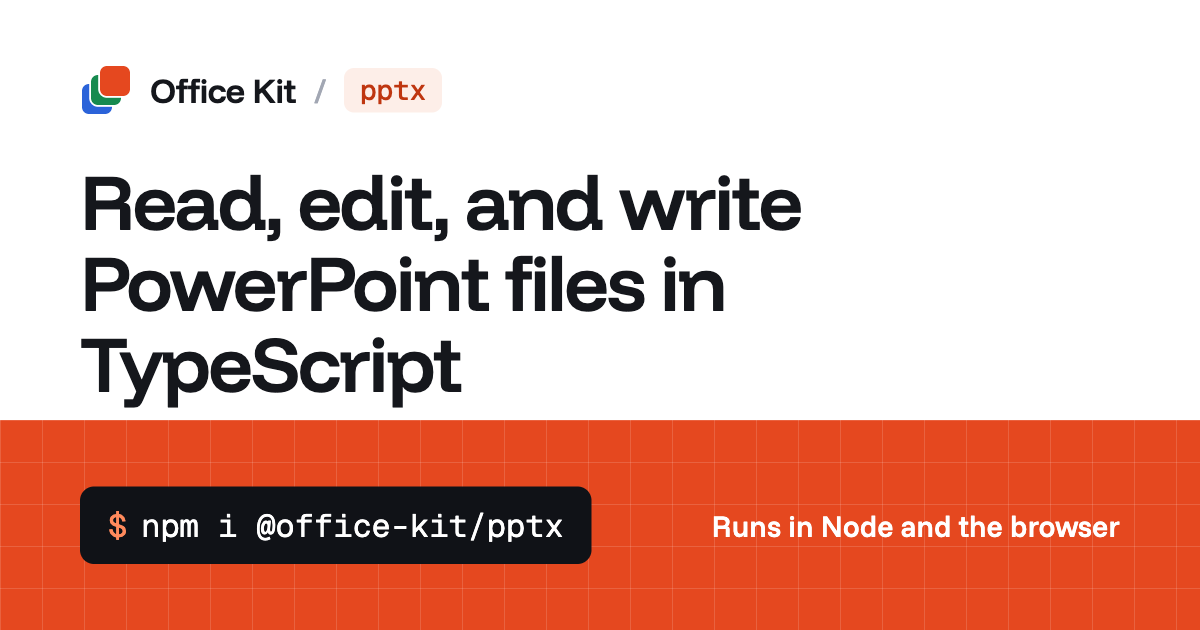
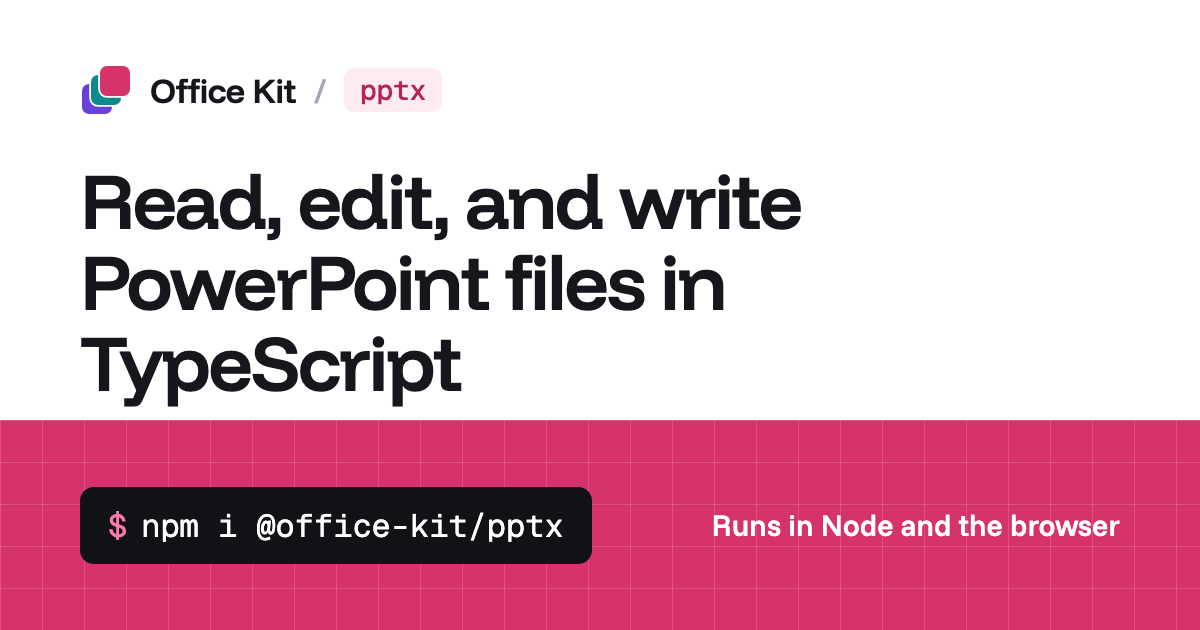
chore(site): pick up the new office-kit brand colors (#402)

diff --git a/site/src/lib/examples/hero-deck.ts b/site/src/lib/examples/hero-deck.ts
@@ -26,7 +26,7 @@ export function buildHeroDeck(): PresentationData {
     w: inches(0.12),
     h: inches(0.95),
   });
-  setShapeFill(bar, '#E5481F');
+  setShapeFill(bar, '#D6336C');
   setShapeNoStroke(bar);
 
   const title = addSlideTextBox(slide, {
@@ -56,7 +56,7 @@ export function buildHeroDeck(): PresentationData {
       kind: 'column',
       categories: ['Q1', 'Q2', 'Q3', 'Q4'],
       series: [
-        { name: 'Revenue', values: [120, 180, 240, 300], color: '#E5481F' },
+        { name: 'Revenue', values: [120, 180, 240, 300], color: '#D6336C' },
         { name: 'Cost', values: [80, 90, 130, 160], color: '#C9CDD6' },
       ],
       legend: { position: 'b', textStyle: { sizePt: 14, color: '#5B616E' } },

diff --git a/packages/dsl/examples/review.tsx b/packages/dsl/examples/review.tsx
@@ -1,7 +1,7 @@
 /** @jsxImportSource @office-kit/pptx-dsl */
 import { Presentation, Slide, Text, Shape, Chart, Table } from '@office-kit/pptx-dsl';
 
-const accent = '#E5481F';
+const accent = '#D6336C';
 const kpis = [
   ['$300k', 'Q4 revenue'],
   ['47%', 'Gross margin'],

diff --git a/packages/dev/src/init.ts b/packages/dev/src/init.ts
@@ -13,7 +13,7 @@ export default (
 
 const theme = `export const theme = {
   background: '#15171C',
-  accent: '#E5481F',
+  accent: '#D6336C',
   text: '#FFFFFF',
   muted: '#B4B9C4',
 } as const;

diff --git a/skill/references/tsx.md b/skill/references/tsx.md
@@ -13,7 +13,7 @@ approximately 13.333 × 7.5 inches. Child order is drawing order.
 ```tsx
 import { Presentation, Slide, Text, Shape, Chart, Table } from '@office-kit/pptx-dsl';
 
-const accent = '#E5481F';
+const accent = '#D6336C';
 
 export default (
   <Presentation>

diff --git a/.changeset/init-rose-accent.md b/.changeset/init-rose-accent.md
@@ -1,0 +1,5 @@
+---
+'@office-kit/pptx-dev': patch
+---
+
+`init` now scaffolds `theme.ts` with the office-kit rose accent (`#D6336C`) instead of `#E5481F`.
